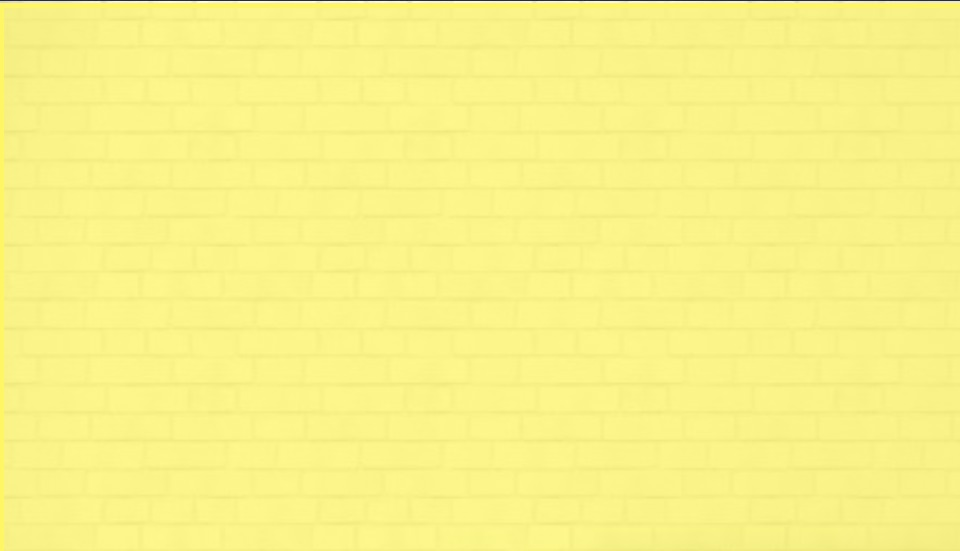
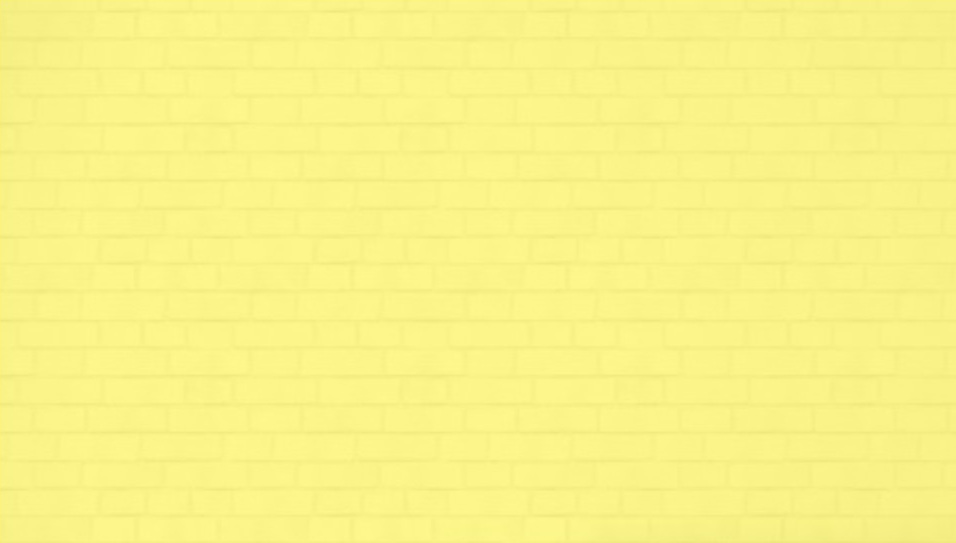
Implement footer and navbar tweaks

diff --git a/src/css/navbar.css b/src/css/navbar.css
@@ -1,30 +1,32 @@
 .navbar {
     overflow: hidden;
-    background-color: black;
+    background-image: url("../../images/banner_1.jpeg");
     position: fixed;
     top: 0;
-    left: 0;
     width: 100%;
-    padding-left: 15%;
-    padding-right: 15%;
+    vertical-align: middle;
+    font-family: Georgia, 'Times New Roman', Times, serif;
+    border-bottom-right-radius: 10px;
+    border-bottom-left-radius: 10px;
 }
 
 .navbar a {
-    float: left;
-    display: flex;
+    align-items: center;
+    justify-content: space-between;
+    display: inline-flex;
     color: #eeeeee;
     text-align: center;
     text-decoration: none;
-    padding: 20px 10%;
+    padding: 14px 5%;
     font-size: 20px;
     border-radius: 5px;
-    margin: 2px 5px 4px 5px;
+    margin: 2px 4px 4px 4px;
 }
 
 .navbar-selected {
-    background-color: rgb(50, 50, 50);
+    background-color: rgba(255, 255, 140, 0.3);
 }
 
 .navbar a:hover {
-    background-color: rgb(80, 80, 80);
+    background-color: rgba(150, 150, 150, 0.3);
 }

diff --git a/src/artists/index.html b/src/artists/index.html
@@ -2,7 +2,9 @@
 <html>
 
 <head>
+    <link rel="stylesheet" href="../css/common.css">
     <link rel="stylesheet" href="../css/navbar.css">
+    <link rel="stylesheet" href="../css/footer.css">
     <title>Artists</title>
 </head>
 
@@ -11,6 +13,9 @@
         <a href="../index.html">Home</a>
         <a href="../about.html">About</a>
         <a href="index.html" class="navbar-selected">Artists</a>
+        <a href="https://github.com/CS6-201-ISS-S23/project-diss">Contribute</a>
+    </div>
+    <div class="footer">
     </div>
 </body>
 

diff --git a/src/about.html b/src/about.html
@@ -2,7 +2,9 @@
 <html>
 
 <head>
+    <link rel="stylesheet" href="css/common.css">
     <link rel="stylesheet" href="css/navbar.css">
+    <link rel="stylesheet" href="css/footer.css">
     <title>About Meanius</title>
 </head>
 
@@ -11,6 +13,9 @@
         <a href="index.html">Home</a>
         <a href="about.html" class="navbar-selected">About</a>
         <a href="artists/index.html">Artists</a>
+        <a href="https://github.com/CS6-201-ISS-S23/project-diss">Contribute</a>
+    </div>
+    <div class="footer">
     </div>
 </body>
 

diff --git a/src/index.html b/src/index.html
@@ -2,7 +2,9 @@
 <html>
 
 <head>
+    <link rel="stylesheet" href="css/common.css">
     <link rel="stylesheet" href="css/navbar.css">
+    <link rel="stylesheet" href="css/footer.css">
     <title>Meanius</title>
 </head>
 
@@ -11,6 +13,9 @@
         <a href="index.html" class="navbar-selected">Home</a>
         <a href="about.html">About</a>
         <a href="artists/index.html">Artists</a>
+        <a href="https://github.com/CS6-201-ISS-S23/project-diss">Contribute</a>
+    </div>
+    <div class="footer">
     </div>
 </body>
 

diff --git a/src/css/common.css b/src/css/common.css
@@ -1,0 +1,11 @@
+body {
+    margin: 0;
+    position: relative;
+    padding-top: 40px;
+    padding-bottom: 200px;
+    text-align: center;
+    background-image: url("../../images/background.jpeg");
+    min-height: 100vh;
+    font-size: 20px;
+
+}

diff --git a/src/css/footer.css b/src/css/footer.css
@@ -1,0 +1,9 @@
+.footer {
+    background-image: url("../../images/banner_2.jpeg");
+    border-top-right-radius: 10px;
+    border-top-left-radius: 10px;
+    position: absolute;
+    bottom: 0;
+    width: 100%;
+    min-height: 180px;
+}
